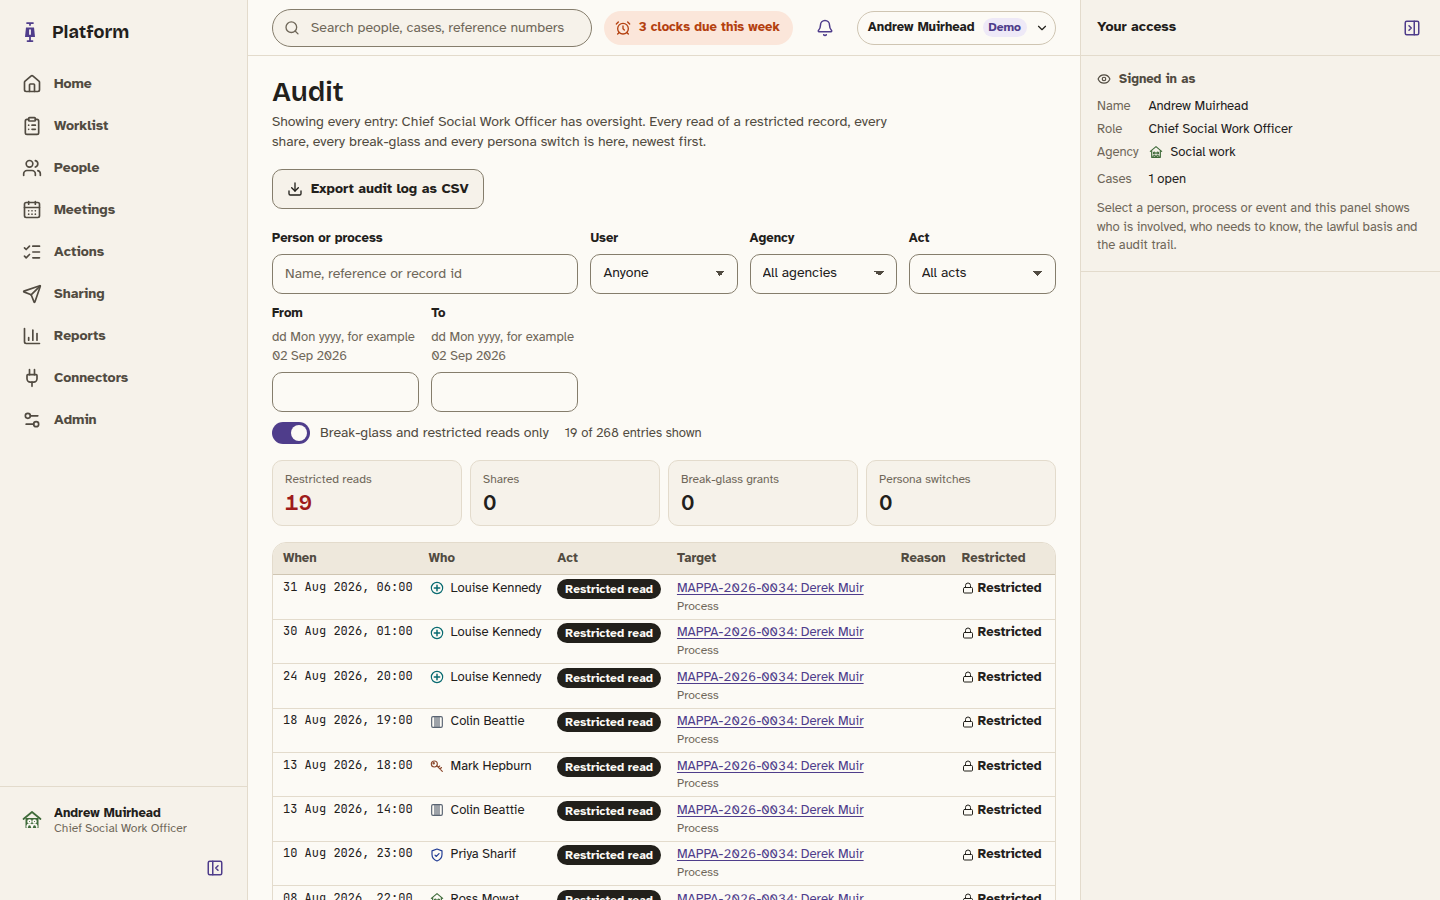
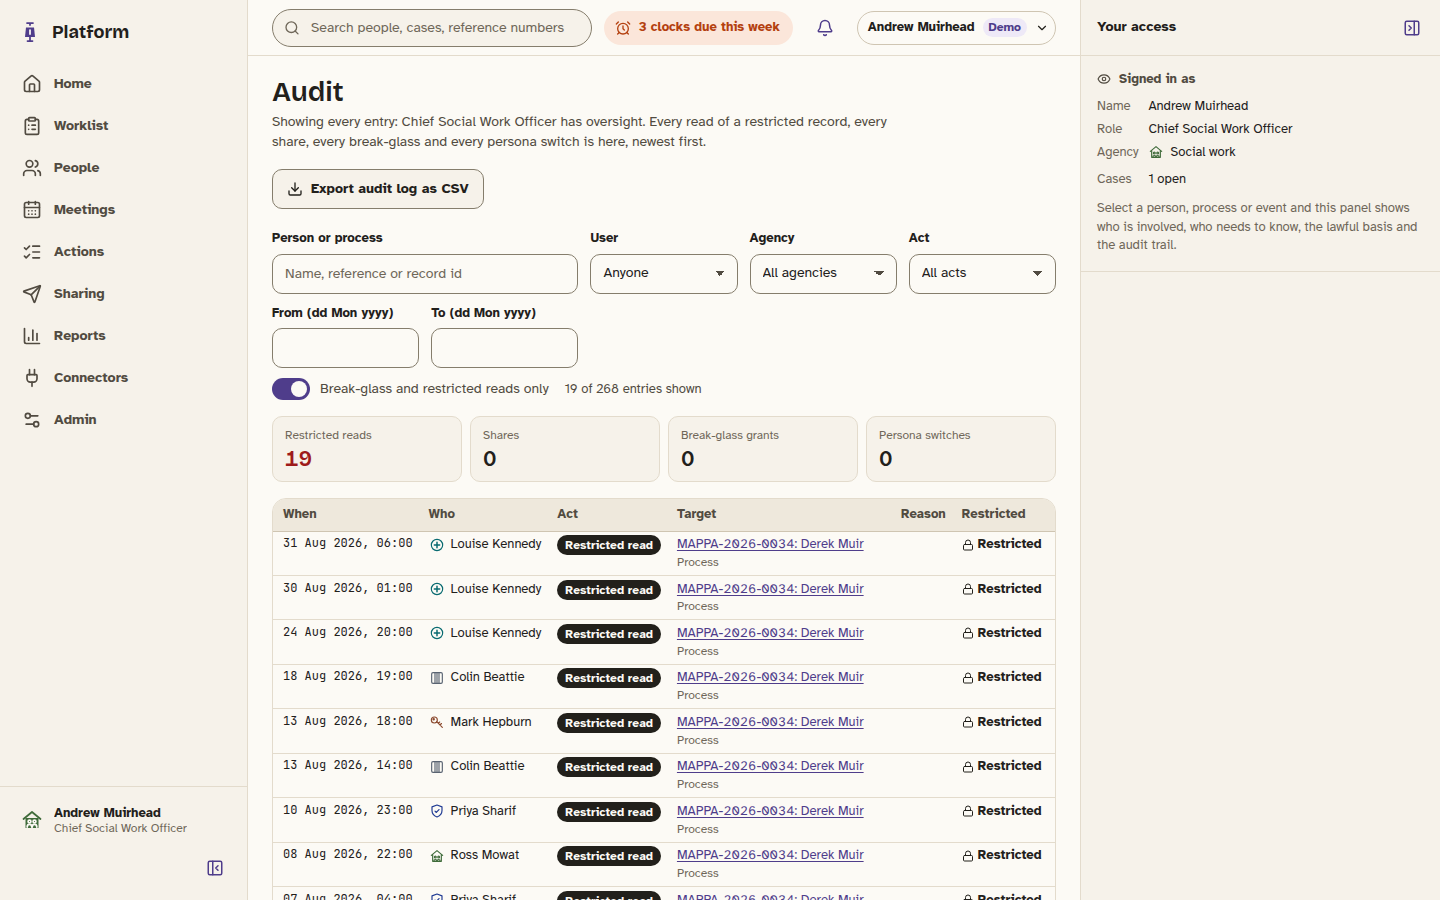
fix(ui): carry the date format in the label on compact rows
The format hint above the date box made the audit From and To fields
and the meeting Due field a line taller than their neighbours. In those
rows, and on the admin holiday lists, the label now reads "Due (dd Mon
yyyy)" and the hint is suppressed with hint={null}; the dialogs keep
the hint with its example. Screenshots recaptured.

Claude-Session: https://claude.ai/code/session_01FKeMmPt1Xxg5XsbCUvgkkp

diff --git a/apps/web/features/meetings/MeetingWorkspace.tsx b/apps/web/features/meetings/MeetingWorkspace.tsx
@@ -312,7 +312,7 @@ export function MeetingWorkspace({ meetingId }: { meetingId: string }) {
                   <div className="cluster" style={{ alignItems: 'flex-end' }}>
                     <SelectField label="Agency" value={requestForm.agency} onChange={(e) => setRequestForm({ ...requestForm, agency: e.target.value as Agency, to: '' })} options={AGENCIES.map((a) => ({ value: a, label: AGENCY_SHORT[a] }))} />
                     <SelectField label="To" value={requestForm.to} onChange={(e) => setRequestForm({ ...requestForm, to: e.target.value })} placeholder="Choose a person" options={personas.filter((u) => u.agency === requestForm.agency).map((u) => ({ value: u.id, label: `${userName(u)}, ${ROLE_DEFINITIONS[u.roleId].label}` }))} />
-                    <DateField label="Due" value={requestForm.due} onChange={(due) => setRequestForm({ ...requestForm, due })} />
+                    <DateField label="Due (dd Mon yyyy)" hint={null} value={requestForm.due} onChange={(due) => setRequestForm({ ...requestForm, due })} />
                     <Button variant="secondary" icon={<Send size={14} aria-hidden="true" />} onClick={sendRequest} disabled={!requestForm.due}>
                       Send request
                     </Button>
@@ -482,7 +482,7 @@ export function MeetingWorkspace({ meetingId }: { meetingId: string }) {
                       <TextField label="Action" value={actionForm.title} onChange={(e) => setActionForm({ ...actionForm, title: e.target.value })} placeholder="Say what will happen, by whom, by when" />
                     </div>
                     <SelectField label="Owner" value={actionForm.owner} onChange={(e) => setActionForm({ ...actionForm, owner: e.target.value })} placeholder="Choose an attendee" options={meeting.invitees.filter((i) => i.userId).map((i) => ({ value: i.userId!, label: `${i.name} (${AGENCY_SHORT[i.agency]})` }))} />
-                    <DateField label="Due" value={actionForm.due} onChange={(due) => setActionForm({ ...actionForm, due })} />
+                    <DateField label="Due (dd Mon yyyy)" hint={null} value={actionForm.due} onChange={(due) => setActionForm({ ...actionForm, due })} />
                     <Button variant="primary" onClick={addAction} disabled={!actionForm.owner || !actionForm.due || actionForm.title.trim().length < 5}>
                       Capture action
                     </Button>
@@ -514,7 +514,7 @@ export function MeetingWorkspace({ meetingId }: { meetingId: string }) {
                 </div>
                 <div className={styles.form} style={{ marginTop: 12 }}>
                   <div className="cluster" style={{ alignItems: 'flex-end' }}>
-                    <DateField label="Review date" value={reviewDate} onChange={setReviewDate} />
+                    <DateField label="Review date (dd Mon yyyy)" hint={null} value={reviewDate} onChange={setReviewDate} />
                     <Button variant="secondary" onClick={() => { update({ reviewDate: reviewDate || undefined }); toast({ title: 'Review date set', text: reviewDate ? formatDate(reviewDate) : 'Cleared' }); }}>
                       Set review date
                     </Button>

diff --git a/apps/web/features/admin/Defaults.tsx b/apps/web/features/admin/Defaults.tsx
@@ -227,7 +227,7 @@ export function Defaults() {
             </ul>
             {canEdit ? (
               <div className={styles.addRow}>
-                <DateField label="Add a bank holiday" value={newHoliday} onChange={setNewHoliday} onKeyDown={(e) => e.key === 'Enter' && addHoliday()} error={holidayError} />
+                <DateField label="Add a bank holiday (dd Mon yyyy)" hint={null} value={newHoliday} onChange={setNewHoliday} onKeyDown={(e) => e.key === 'Enter' && addHoliday()} error={holidayError} />
                 <Button variant="secondary" icon={<Plus size={14} aria-hidden="true" />} onClick={addHoliday}>
                   Add date
                 </Button>
@@ -256,7 +256,7 @@ export function Defaults() {
             </ul>
             {canEdit ? (
               <div className={styles.addRow}>
-                <DateField label="Add a council holiday" value={newCouncilHoliday} onChange={setNewCouncilHoliday} onKeyDown={(e) => e.key === 'Enter' && addCouncilHoliday()} error={councilHolidayError} />
+                <DateField label="Add a council holiday (dd Mon yyyy)" hint={null} value={newCouncilHoliday} onChange={setNewCouncilHoliday} onKeyDown={(e) => e.key === 'Enter' && addCouncilHoliday()} error={councilHolidayError} />
                 <Button variant="secondary" icon={<Plus size={14} aria-hidden="true" />} onClick={addCouncilHoliday}>
                   Add date
                 </Button>

diff --git a/apps/web/features/audit/Audit.tsx b/apps/web/features/audit/Audit.tsx
@@ -195,8 +195,8 @@ export function Audit() {
         <SelectField label="User" value={userFilter} onChange={(e) => set('user', e.target.value || null)} placeholder="Anyone" options={userOptions} />
         <SelectField label="Agency" value={agencyFilter} onChange={(e) => set('agency', e.target.value || null)} placeholder="All agencies" options={AGENCIES.map((a) => ({ value: a, label: AGENCY_LABELS[a] }))} />
         <SelectField label="Act" value={actFilter} onChange={(e) => set('act', e.target.value || null)} placeholder="All acts" options={AUDIT_ACTS.map((a) => ({ value: a, label: ACT_LABELS[a] }))} />
-        <DateField label="From" value={from} onChange={(v) => set('from', /^\d{4}-\d{2}-\d{2}$/.test(v) ? v : null)} />
-        <DateField label="To" value={to} onChange={(v) => set('to', /^\d{4}-\d{2}-\d{2}$/.test(v) ? v : null)} />
+        <DateField label="From (dd Mon yyyy)" hint={null} value={from} onChange={(v) => set('from', /^\d{4}-\d{2}-\d{2}$/.test(v) ? v : null)} />
+        <DateField label="To (dd Mon yyyy)" hint={null} value={to} onChange={(v) => set('to', /^\d{4}-\d{2}-\d{2}$/.test(v) ? v : null)} />
       </div>
       <div className={styles.quick}>
         <Switch label="Break-glass and restricted reads only" checked={quick} onChange={(e) => set('quick', e.target.checked ? '1' : null)} />

diff --git a/packages/ui/src/primitives/DateField.tsx b/packages/ui/src/primitives/DateField.tsx
@@ -6,6 +6,7 @@ import { TextField } from './Field';
 
 export interface DateFieldProps extends Omit<InputHTMLAttributes<HTMLInputElement>, 'value' | 'onChange' | 'type' | 'required'> {
   label: ReactNode;
+  /** Omit for the format hint with an example; pass null in a compact row and put the format in the label instead. */
   hint?: ReactNode;
   error?: ReactNode;
   required?: boolean;
@@ -38,7 +39,7 @@ export function DateField({ label, hint, error, required, value, onChange, onBlu
   return (
     <TextField
       label={label}
-      hint={hint ?? `${UI_DATE_FORMAT}, for example ${UI_DATE_EXAMPLE}`}
+      hint={hint === undefined ? `${UI_DATE_FORMAT}, for example ${UI_DATE_EXAMPLE}` : hint || undefined}
       error={error ?? formatError}
       required={required}
       className={cn(styles.date, className)}

diff --git a/docs/DECISIONS.md b/docs/DECISIONS.md
@@ -64,5 +64,5 @@ One line of rationale each. Newest at the bottom. Prefix D-nnn. Domain decisions
 - D-047 The DAQ that accompanies a MARAC referral and the MAPPA referral both ask "Is there anyone else who must not receive information about this case?" (`mustNotReceive`, shared entry schema in `packages/domain/src/forms/must-not-receive.ts`). Each answer becomes a manual case-role register entry keyed by a typed name: `casePartySchema` accepts `name` as a third form beside `personId` and `userId`, and `isExcludedParty` matches a candidate `name` against those entries case-insensitively after trimming. The parties offered are limited to the roles the exclusion rows name for that process (MARAC: perpetrator, family or associates; MAPPA: victims, employer, family or associates, public). A repeated name for the same party replaces the earlier entry rather than duplicating it. `accessFor` still checks platform users by id only; matching users by typed name is deliberately not done, because namesakes would lock out the wrong person.
 - D-036 Appendix D of the 2021 national guidance, read live on 03 Sep 2026, sets the CP clocks: notice 5 calendar days before the CPPM (High), core group escalation within 3 calendar days of a significant change or concern within the plan (High), first core group within 15 working days (High), review of a pre-birth plan within 3 months of the pre-birth CPPM (High, deferrable on professional judgement after the birth), an inquorate CPPM reconvened within 10 working days (High), the CPPM record distributed within 10 working days (High). The 28 day initial CPPM clock follows a child protection investigation; the "concern being raised" framing belongs to the unborn baby row.
 - D-039 Distributing a minute from the meeting workspace completes the process's record distribution clock, and the minutes pack shows the distribution deadline while it is running.
-- D-049 Dates are typed, not picked: `DateField` in `packages/ui` takes text in dd Mon yyyy (also accepting 2 September 2026, 02/09/2026 and ISO), normalises it on blur, hands the form a yyyy-MM-dd calendar date and shows a format error with the example when the text is not a real date. Native `<input type="date">` renders in the browser's locale, which the product cannot control, so it is not used anywhere; the twelve date inputs (form dialogs, meeting due dates, admin holidays, the audit filter) all use the field. Every date field carries the format and an example as its hint unless the caller supplies a hint that includes them.
+- D-049 Dates are typed, not picked: `DateField` in `packages/ui` takes text in dd Mon yyyy (also accepting 2 September 2026, 02/09/2026 and ISO), normalises it on blur, hands the form a yyyy-MM-dd calendar date and shows a format error with the example when the text is not a real date. Native `<input type="date">` renders in the browser's locale, which the product cannot control, so it is not used anywhere; the twelve date inputs (form dialogs, meeting due dates, admin holidays, the audit filter) all use the field. Every date field carries the format and an example as its hint; in a compact row (the audit filter, the meeting due and review dates, the admin holiday lists) the label carries the format instead, as "Due (dd Mon yyyy)", and the hint is suppressed so the row stays level.
 - D-048 The MAPPA annual report carries Annex 3 Tables 1 to 9 of the MAPPA National Guidance for the year 1 April to 31 March, with the field set marked High on the product owner's instruction: Tables 1, 3, 4, 5, 6, 7 and 9 are computed from the record store, Table 2 from a civil order register added to the MAPPA detail (`orders`: SOPO, RSHO, FTO, SHPO, SRO or notification order, with made and expiry dates, court and status), and Table 8 (serious further offences) shows "Data not held" in every cell because the store holds no charge or conviction data. Figures that the store cannot supply (the rate per 100,000, wanted RSOs, breach convictions) also read "Data not held" rather than zero. The wording of every title and row is a placeholder in `apps/web/features/reports/mappaAnnex3.ts`, keyed by row id, so the supplied text replaces it in one file without touching the model.

diff --git a/docs/NOTES.md b/docs/NOTES.md
@@ -166,5 +166,5 @@ Running log of what was tried visually, what was rejected and why. Newest at the
 - `awi.interim.warning` cites the Expert Working Group minutes of April 2026 and no longer carries a Verify flag.
 - Playwright 1.62.1: the matching Chromium cannot be downloaded through the proxy from either host, so the container keeps running the suite against the preinstalled build 1194 (a spec passes on it); the macOS install step is in the handover (D-038). ESLint stays on 9.
 - MAPPA annual report rebuilt around Annex 3 Tables 1 to 9 (D-048): one section per table, the level and category chart kept on Table 3, a civil order register on the MAPPA record feeding Table 2 (Derek Muir carries an SHPO made 20 Jul 2026), and Table 8 reading "Data not held" throughout. Tried and rejected: zero in cells the store cannot fill, because a zero reads as a fact in a return to Ministers; "Data not held" is honest and prints the same width. The report's meta line now says the field set is High and its verify panel is limited to the wording, which stays a placeholder in one file until the annex text is pasted in.
-- Two tidies after the round 3 screenshot review. The native date input at the top of the DAQ dialog rendered as 09/02/2026 in the capture, the browser's locale rather than the product's dd Mon yyyy, and the same control sat in eleven other places; all twelve now use a typed `DateField` that shows dd Mon yyyy, accepts the ways practitioners type a date and says exactly what it wants when it cannot read one (D-049). Tried and rejected: keeping the native control for its picker, because its display format cannot be styled and a date that reads month first is a safeguarding error waiting to happen. The "Relationship to the case" hint on the must-not-receive entry ran three lines at its column width and pushed the field below its neighbours, so it is now one example on one line.
+- Two tidies after the round 3 screenshot review. The native date input at the top of the DAQ dialog rendered as 09/02/2026 in the capture, the browser's locale rather than the product's dd Mon yyyy, and the same control sat in eleven other places; all twelve now use a typed `DateField` that shows dd Mon yyyy, accepts the ways practitioners type a date and says exactly what it wants when it cannot read one (D-049). Tried and rejected: keeping the native control for its picker, because its display format cannot be styled and a date that reads month first is a safeguarding error waiting to happen. The "Relationship to the case" hint on the must-not-receive entry ran three lines at its column width and pushed the field below its neighbours, so it is now one example on one line. A second pass on the compact rows: the format hint above the date box made the audit From and To fields and the meeting Due field sit a line taller than their neighbours, so in those rows the label carries the format ("Due (dd Mon yyyy)") and there is no hint; the dialogs keep the hint with its example.
 - The DAQ that accompanies a MARAC referral and the MAPPA referral both ask "Is there anyone else who must not receive information about this case?" (D-047). Each answer lands on the case-role register as a named manual entry with the party and reason, and the drawer shows it beside the person-linked entries. Tried and rejected: matching typed names against platform users, because namesakes would lock the wrong person out; the register matches names only against other typed names.
